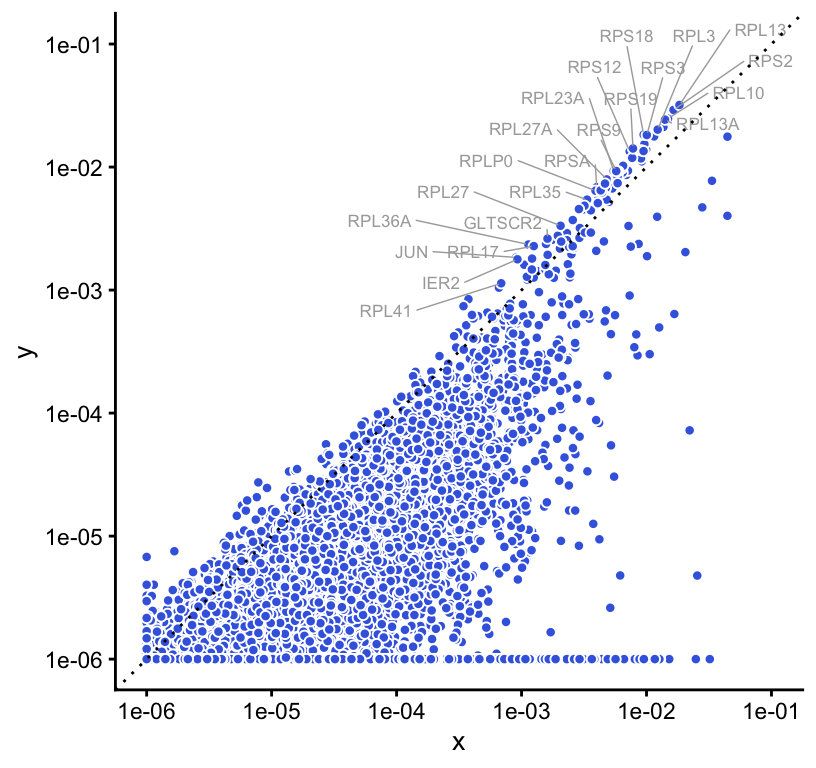
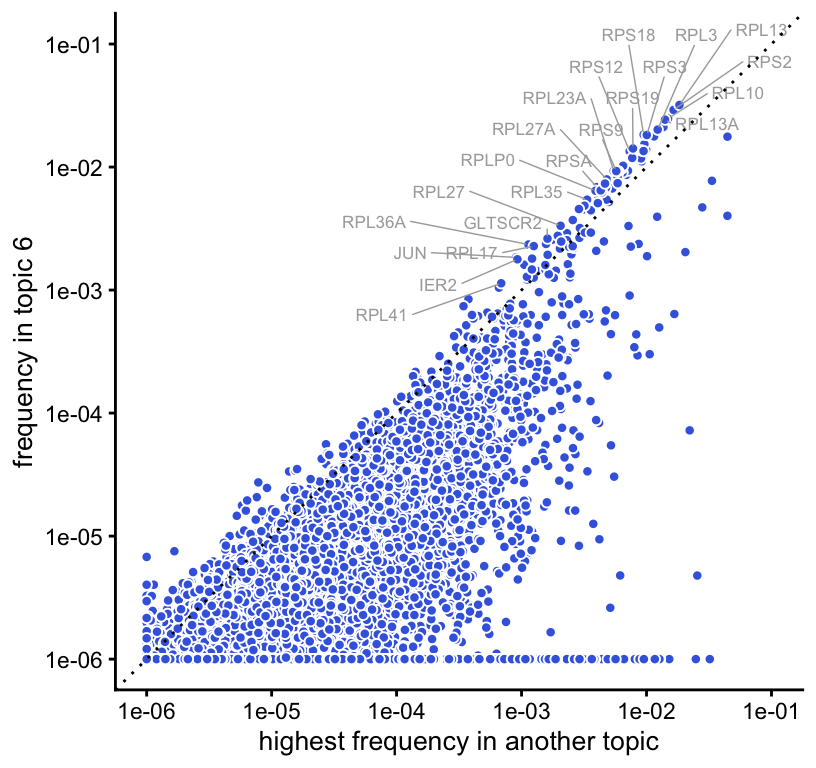
Build site.

diff --git a/docs/assess_fits_68k_pbmc.html b/docs/assess_fits_68k_pbmc.html
@@ -414,16 +414,16 @@ This reproducible <a href="http://rmarkdown.rstudio.com">R Markdown</a> analysis
 <div class="panel panel-default">
 <div class="panel-heading">
 <p class="panel-title">
-<a data-toggle="collapse" data-parent="#workflowr-checks" href="#strongRepositoryversionstrongahrefhttpsgithubcomstephenslabfastTopicsexperimentstree3aa9fe76caf6677addc23614c660c25177ddae2ctargetblank3aa9fe7a"> <span class="glyphicon glyphicon-ok text-success" aria-hidden="true"></span> <strong>Repository version:</strong> <a href="https://github.com/stephenslab/fastTopics-experiments/tree/3aa9fe76caf6677addc23614c660c25177ddae2c" target="_blank">3aa9fe7</a> </a>
+<a data-toggle="collapse" data-parent="#workflowr-checks" href="#strongRepositoryversionstrongahrefhttpsgithubcomstephenslabfastTopicsexperimentstree7d6db5965d2ca3d87b27246babc1495f1058ca11targetblank7d6db59a"> <span class="glyphicon glyphicon-ok text-success" aria-hidden="true"></span> <strong>Repository version:</strong> <a href="https://github.com/stephenslab/fastTopics-experiments/tree/7d6db5965d2ca3d87b27246babc1495f1058ca11" target="_blank">7d6db59</a> </a>
 </p>
 </div>
[2 lines of base64/hex data omitted]
 <div class="panel-body">
 <p>
 Great! You are using Git for version control. Tracking code development and connecting the code version to the results is critical for reproducibility.
 </p>
 <p>
-The results in this page were generated with repository version <a href="https://github.com/stephenslab/fastTopics-experiments/tree/3aa9fe76caf6677addc23614c660c25177ddae2c" target="_blank">3aa9fe7</a>. See the <em>Past versions</em> tab to see a history of the changes made to the R Markdown and HTML files.
+The results in this page were generated with repository version <a href="https://github.com/stephenslab/fastTopics-experiments/tree/7d6db5965d2ca3d87b27246babc1495f1058ca11" target="_blank">7d6db59</a>. See the <em>Past versions</em> tab to see a history of the changes made to the R Markdown and HTML files.
 </p>
 <p>
 Note that you need to be careful to ensure that all relevant files for the analysis have been committed to Git prior to generating the results (you can use <code>wflow_publish</code> or <code>wflow_git_commit</code>). workflowr only checks the R Markdown file, but you know if there are other scripts or data files that it depends on. Below is the status of the Git repository when the results were generated:
@@ -441,9 +441,6 @@ Ignored files:
 
 Untracked files:
     Untracked:  plots/
-
-Unstaged changes:
-    Modified:   analysis/assess_fits_newsgroups.Rmd
 
 </code></pre>
 <p>
@@ -482,6 +479,40 @@ Message
 </tr>
 </thead>
 <tbody>
+<tr>
+<td>
+Rmd
+</td>
+<td>
+<a href="https://github.com/stephenslab/fastTopics-experiments/blob/7d6db5965d2ca3d87b27246babc1495f1058ca11/analysis/assess_fits_68k_pbmc.Rmd" target="_blank">7d6db59</a>
+</td>
+<td>
+Peter Carbonetto
+</td>
+<td>
+2021-04-15
+</td>
+<td>
+workflowr::wflow_publish(“assess_fits_68k_pbmc.Rmd”)
+</td>
+</tr>
+<tr>
+<td>
+html
+</td>
+<td>
+<a href="https://rawcdn.githack.com/stephenslab/fastTopics-experiments/5311f127be7b38fed420eb22614ba20b5a04f102/docs/assess_fits_68k_pbmc.html" target="_blank">5311f12</a>
+</td>
+<td>
+Peter Carbonetto
+</td>
+<td>
+2021-04-15
+</td>
+<td>
+Added gene scatterplot to assess_fits_68k_pbmc analysis.
+</td>
+</tr>
 <tr>
 <td>
 Rmd
@@ -1044,8 +1075,47 @@ ggplot(pdat,aes(x = x,y = y,label = gene)) +
   geom_abline(intercept = 0,slope = 1,color = &quot;black&quot;,linetype = &quot;dotted&quot;) +
   scale_x_continuous(trans = &quot;log10&quot;,limits=10^c(-6,-1),breaks=10^seq(-6,-1)) +
   scale_y_continuous(trans = &quot;log10&quot;,limits=10^c(-6,-1),breaks=10^seq(-6,-1)) +
+  labs(x = &quot;highest frequency in another topic&quot;,
+       y = &quot;frequency in topic 6&quot;) +
   theme_cowplot(font_size = 10)</code></pre>
 <p><img src="figure/assess_fits_68k_pbmc.Rmd/words-scatterplot-1.png" width="408" style="display: block; margin: auto;" /></p>
+<p>
+<button type="button" class="btn btn-default btn-xs btn-workflowr btn-workflowr-fig" data-toggle="collapse" data-target="#fig-words-scatterplot-1">
+Past versions of words-scatterplot-1.png
+</button>
+</p>
+<div id="fig-words-scatterplot-1" class="collapse">
+<div class="table-responsive">
+<table class="table table-condensed table-hover">
+<thead>
+<tr>
+<th>
+Version
+</th>
+<th>
+Author
+</th>
+<th>
+Date
+</th>
+</tr>
+</thead>
+<tbody>
+<tr>
+<td>
+<a href="https://github.com/stephenslab/fastTopics-experiments/blob/5311f127be7b38fed420eb22614ba20b5a04f102/docs/figure/assess_fits_68k_pbmc.Rmd/words-scatterplot-1.png" target="_blank">5311f12</a>
+</td>
+<td>
+Peter Carbonetto
+</td>
+<td>
+2021-04-15
+</td>
+</tr>
+</tbody>
+</table>
+</div>
+</div>
 <br>
 <p>
 <button type="button" class="btn btn-default btn-workflowr btn-workflowr-sessioninfo" data-toggle="collapse" data-target="#workflowr-sessioninfo" style="display: block;">
